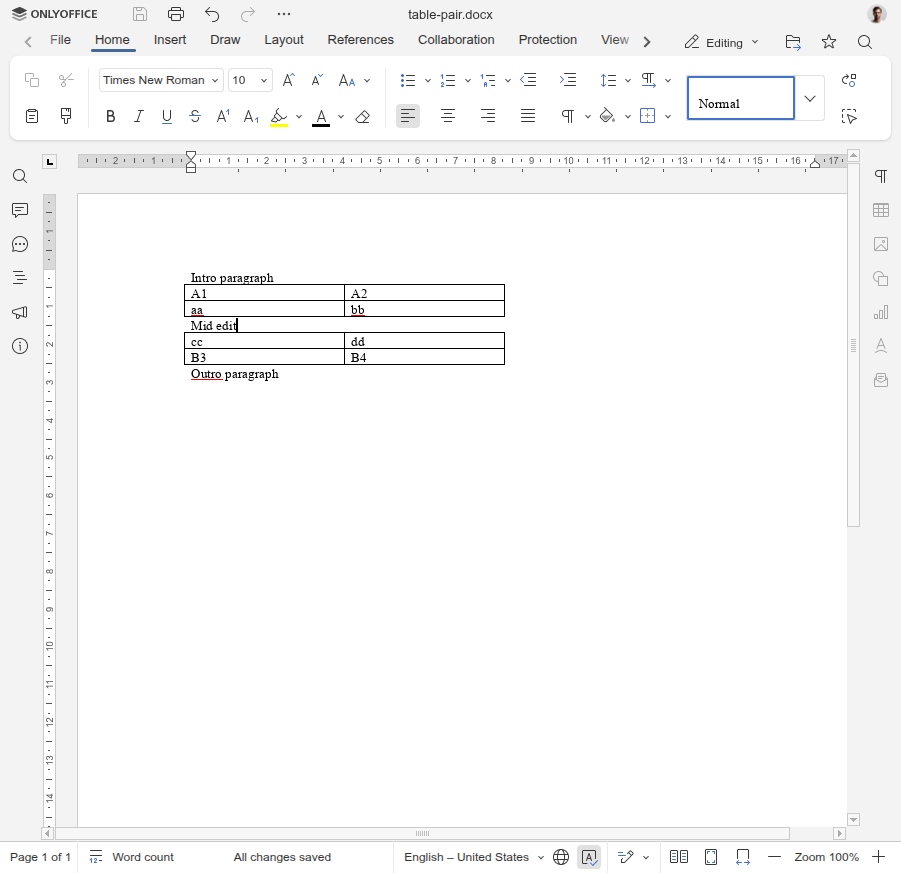
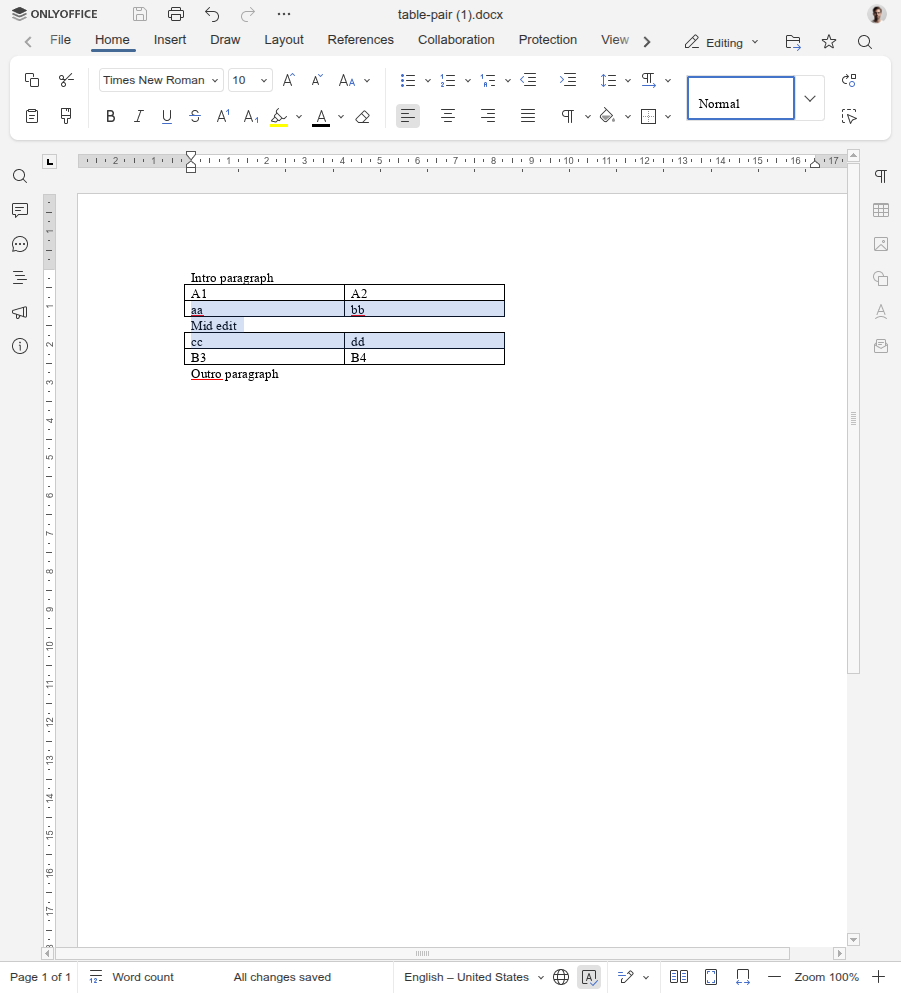
fix(scribe): cross-boundary Replace re-selects the injected span (L#2)
T4/T5/T6 (¶↔cell, cell↔¶, table↔table) mixed Replace left the cursor
collapsed at offset 0. The post-selection now re-establishes a span over
the injected region only: text ¶s are bracketed with two XSEL sentinels,
their injected span recovered (shift-compensated after the sentinels are
deleted), paired with fresh GetCell ranges, and ExpandTo'd — never
doc.GetRange(int,int) across a cell boundary. Validated live + goldens
re-captured (A2/replace also reclassified pass): harness now 0 xfail.

diff --git a/plugins/onlyoffice-scribe/scripts/code.js b/plugins/onlyoffice-scribe/scripts/code.js
@@ -9,7 +9,7 @@
   // If the console shows an OLDER build than expected, the editor served a CACHED
   // code.js → reopen the editor in a fresh tab / private window (a plain F5 won't
   // refetch the async plugin iframe).
-  var SCRIBE_BUILD = "2026-06-29.14 — inline Scribe triggers force a FRESH selection extraction (direct callCommand, not the throttled debounce) before casting AI_TEXT_ASSISTANT, so the prompt uses the CURRENT selection not the previous one. On top of .13 (redo fix) / .12 (stable image ids).";
+  var SCRIBE_BUILD = "2026-07-06.1 — cross-boundary mixed Replace (T4/T5/T6) re-establishes a spanning post-selection over the INJECTED region only (L#2 fix): text ¶s bracketed with two XSEL sentinels, injected span recovered shift-compensated, paired with fresh GetCell ranges, ExpandTo the extremes — no doc.GetRange(int,int) across a cell boundary. On top of .14 (inline fresh extraction).";
   try { window.__scribeBuild = SCRIBE_BUILD; } catch (e) {}
 
   // ---- State ----
@@ -1576,6 +1576,15 @@
       // Each non-table paragraph gets its own narrowed InsertContent (inline mode),
       // which handles partial paragraphs natively (preserves prefix/suffix).
       // Processed in reverse order to avoid position shifts.
+      // Cross-boundary post-selection locators: two plain-ASCII sentinel runs
+      // BRACKET each modified text ¶'s injected content (one before, one after) so
+      // the post-selection can re-find the exact injected span after the inline
+      // merge absorbs pbParagraph's refs and shifts its top-level position. Both are
+      // deleted before the selection is built (with shift compensation), so they
+      // never leak into the saved doc and the selection covers the injected text
+      // only — not the kept prefix/suffix.
+      var SCRIBE_XSEL_A = "zZscribeXAZz"; // opens the injected span
+      var SCRIBE_XSEL_B = "zZscribeXBZz"; // closes the injected span
       var skipContentAndInsert = false;
       if (mode === "replace" && tablesModifiedInPlace && hasMixedContent) {
         try {
@@ -1633,9 +1642,13 @@
                 var selPRange = doc.GetRange(selPStart, selPEnd);
                 if (selPRange) selPRange.Select();
 
-                // Build content and InsertContent (same mechanism as non-table case)
+                // Build content and InsertContent (same mechanism as non-table case).
+                // Bracket the injected runs with two sentinels so the post-selection
+                // can recover the exact injected span (kept prefix/suffix excluded).
                 var pbParagraph = Api.CreateParagraph();
+                try { var xRunA = Api.CreateRun(); xRunA.AddText(SCRIBE_XSEL_A); pbParagraph.AddElement(xRunA); } catch (e) {}
                 addBlockToParagraph(pbParagraph, pbBlock, srcFontFamily, srcFontSize);
+                try { var xRunB = Api.CreateRun(); xRunB.AddText(SCRIBE_XSEL_B); pbParagraph.AddElement(xRunB); } catch (e) {}
                 doc.InsertContent([pbParagraph], true); // inline mode: preserves suffix
 
                 // Save the narrowed selection bounds for post-selection.
@@ -2242,11 +2255,98 @@
           } // end if (!skipContentAndInsert)
 
           // Select the modified cell range (pure table Replace only).
-          // For mixed content Replace (skipContentAndInsert), post-selection is skipped
-          // because OO's selection API can't select partial table + text cross-boundary.
           if (!skipContentAndInsert && postSelStart >= 0 && postSelEnd > postSelStart) {
             var postRange = doc.GetRange(postSelStart, postSelEnd);
             if (postRange) postRange.Select();
+          }
+
+          // Cross-boundary mixed Replace (skipContentAndInsert): re-establish a
+          // spanning selection over the INJECTED region only. Re-fetch every touched
+          // element FRESH — cells via GetCell, text ¶s via their XSEL_A/XSEL_B
+          // sentinel bracket — then ExpandTo the global extremes' union. We NEVER use
+          // doc.GetRange(int,int) ACROSS a cell boundary (that is exactly L#2:
+          // integer positions don't compose cross-cell); the only integer ranges we
+          // build are WITHIN a single ¶ (the injected span), and ExpandTo of two live
+          // range objects composes across the boundary (probe-confirmed post-mutation).
+          if (skipContentAndInsert) {
+            // 1. locate the sentinel pair in each modified text ¶. injStartPre points
+            //    just after XSEL_A (first injected char); injEndPre just before XSEL_B
+            //    (last injected char). Positions are PRE-deletion.
+            var xSpans = [];   // { injStartPre, injEndPre }
+            var xSents = [];   // { run, pos, len } for every sentinel, for compensation
+            var xAllParas = doc.GetAllParagraphs();
+            for (var xpi = 0; xpi < xAllParas.length; xpi++) {
+              var xPara = xAllParas[xpi];
+              var xEc = (xPara && xPara.GetElementsCount) ? xPara.GetElementsCount() : 0;
+              var xA = null, xB = null;
+              for (var xei = 0; xei < xEc; xei++) {
+                var xEl = xPara.GetElement(xei);
+                var xTxt = (xEl && xEl.GetText) ? xEl.GetText() : "";
+                if (xTxt === SCRIBE_XSEL_A) xA = xEl;
+                else if (xTxt === SCRIBE_XSEL_B) xB = xEl;
+              }
+              if (xA && xB) {
+                var xAr = xA.GetRange(), xBr = xB.GetRange();
+                xSpans.push({ injStartPre: xAr.GetEndPos(), injEndPre: xBr.GetStartPos() });
+                xSents.push({ run: xA, pos: xAr.GetStartPos(), len: xAr.GetEndPos() - xAr.GetStartPos() });
+                xSents.push({ run: xB, pos: xBr.GetStartPos(), len: xBr.GetEndPos() - xBr.GetStartPos() });
+              }
+            }
+            // 2. delete every sentinel (content is now final & clean).
+            for (var xsd = 0; xsd < xSents.length; xsd++) {
+              try { xSents[xsd].run.Delete(); } catch (e) {}
+            }
+            // compensate a PRE-deletion position for all sentinels removed before it.
+            function xCompensate(pos) {
+              var shift = 0;
+              for (var i = 0; i < xSents.length; i++) { if (xSents[i].pos < pos) shift += xSents[i].len; }
+              return pos - shift;
+            }
+
+            // 3. collect fresh candidate ranges (all consistent, post-deletion).
+            var xCand = [];
+            // cells — GetCell is always fresh, no compensation needed.
+            var xTables = doc.GetAllTables();
+            for (var xti in partialTableInfo) {
+              if (!partialTableInfo.hasOwnProperty(xti)) continue;
+              var xCells = partialTableInfo[xti];
+              if (!xCells || !xCells.length) continue;
+              var xDi = tableDocIndices[parseInt(xti)];
+              var xTb = (xDi !== undefined && xDi < xTables.length) ? xTables[xDi] : null;
+              if (!xTb) continue;
+              for (var xci = 0; xci < xCells.length; xci++) {
+                var xCl = xTb.GetCell(xCells[xci].r, xCells[xci].c);
+                if (!xCl) continue;
+                var xCont = xCl.GetContent();
+                if (!xCont || xCont.GetElementsCount() === 0) continue;
+                var xP0 = xCont.GetElement(0);
+                var xPN = xCont.GetElement(xCont.GetElementsCount() - 1);
+                var xR0 = (xP0 && xP0.GetRange) ? xP0.GetRange() : null;
+                var xRN = (xPN && xPN.GetRange) ? xPN.GetRange() : null;
+                if (xR0) xCand.push({ s: xR0.GetStartPos(), e: xR0.GetEndPos(), r: xR0 });
+                if (xRN) xCand.push({ s: xRN.GetStartPos(), e: xRN.GetEndPos(), r: xRN });
+              }
+            }
+            // text ¶s — injected span via compensated positions (WITHIN one ¶, safe).
+            for (var xsp = 0; xsp < xSpans.length; xsp++) {
+              var xS = xCompensate(xSpans[xsp].injStartPre);
+              var xE = xCompensate(xSpans[xsp].injEndPre);
+              if (xE > xS) {
+                var xr = doc.GetRange(xS, xE);
+                if (xr) xCand.push({ s: xS, e: xE, r: xr });
+              }
+            }
+
+            // 4. ExpandTo the extreme range objects (min start .. max end) and Select.
+            var xMin = null, xMax = null;
+            for (var xc = 0; xc < xCand.length; xc++) {
+              if (!xMin || xCand[xc].s < xMin.s) xMin = xCand[xc];
+              if (!xMax || xCand[xc].e > xMax.e) xMax = xCand[xc];
+            }
+            if (xMin && xMax && xMin.r && xMax.r && xMin.r.ExpandTo) {
+              var xRng = xMin.r.ExpandTo(xMax.r);
+              if (xRng && xRng.Select) xRng.Select();
+            }
           }
         } catch (e) {
           // Selection failed — not critical, document content is correct

diff --git a/.planning/SELECTION-CASES.md b/.planning/SELECTION-CASES.md
@@ -64,7 +64,7 @@ Deux axes orthogonaux se croisent avec chaque cas :
 |---|---|---|---|---|
 | A0 | `[P1@x,P1@x]` *(curseur seul (sélection vide))* | ✅ insère au curseur; pas de chip | — absent par défaut (FRAG-04); si exposé se comporte comme Insérer | ✅ · ne pas utiliser init() qui renverrait tout le ¶ |
 | A1 | `[P1@start,P1@end]` *(paragraphe entier)* | ✅ nouveau ¶ après le ¶ courant; pas de &nbsp; | ✅ remplace tout le ¶ | ✅ |
-| A2 | `[P1@mid,P1@mid]` *(milieu d'un mot)* | ✅ insère au point; &nbsp; des deux côtés | ⚠️ remplace le fragment; &nbsp; des deux côtés | ⚠️ · **L#1** · L1: le suffixe non sélectionné perd ses styles inline (Replace) |
+| A2 | `[P1@mid,P1@mid]` *(milieu d'un mot)* | ✅ insère au point; &nbsp; des deux côtés | ✅ remplace le fragment; &nbsp; des deux côtés | ✅ · Replace sur curseur collapsed @mid = insertion au point -> "The quick XXX brown fox"; PLUS de double espace ni ¶ vide (fix §5bis livre). L#1 (perte styles suffixe) VERIFIE NON-REPRODUCTIBLE. Golden beni verdict=pass (build .1 §5bis). Ancien xfail double-espace resolu. |
 | A3 | `[P1@space,P1@end]` *(après espace -> fin)* | ✅ insère en fin de ¶; pas de &nbsp; après | ✅ remplace; espace de tête déplacée (CommonMark); pas de &nbsp; après | ✅ · **L#6** · L6: post-sélection inline fragile (+2) |
 | A4 | `[P1@start,P1@space]` *(début -> mot, espace finale)* | ✅ insère au point; pas de &nbsp; avant | ✅ remplace; espace finale déplacée après le marqueur md | ✅ |
 | A5 | `[P1@start,P3@end]` *(plusieurs ¶ entiers)* | ✅ blocs insérés après P3 | ✅ remplace P1..P3; injection ¶ par ¶ en ordre inverse | ✅ · TESTÉ LIVE + golden 2026-06-26 (build .8, driver multi-¶ top-level via branche cross ExpandTo). Insert: 3 ¶ intacts, réponse après P3 (1er ¶ fusionné inline en fin de P3 = smart-spacing standard, 'Beta edit' nouveau ¶). Replace: P1..P3 → exactement 3 ¶. Goldens corpus/A5/{insert,replace} sur a-family. |
@@ -87,9 +87,9 @@ Mêmes conventions Insérer / Remplacer. Rappel : pour un tableau, *Insérer* pr
 | T2b | `[T1.cells,T1.cells]` *(cellules partielles, fusion H traversée)* | ✅ clone complet (jamais RemoveColumn) | ✅ in-place — identique à T2a (round-trip (r,c), S2) | ✅ · Insert + Replace VALIDÉS LIVE 2026-06-26 (build .4) : §4bis#2 implémenté (tableHasMerge → clone COMPLET, skip RemoveColumn) → plus de corruption Q4 ; Replace in-place (gridSpan préservé) ; aperçu GFM désaligné cosmétique |
 | T2c | `[T1.cells,T1.cells]` *(cellules partielles, fusion V traversée)* | ✅ clone complet (jamais RemoveRow) | ✅ in-place — identique à T2a (maître édité, continuation vide jamais touchée, S3/S4) | ✅ · Insert + Replace VALIDÉS LIVE 2026-06-26 (build .4) : §4bis#2 implémenté → Insert V-region = clone COMPLET cpr=[3,3,3,2], continuation (2,0) vide, ZÉRO corruption (t2c-insert-fullclone.png) ; Replace in-place OK ; S3 mismatch UX (sélection continuation seule) ; trou détection full S5 — non bloquants |
 | T3 | `[T1.full,T1.full]` *(tableau entier englobant)* | ✅ clone complet inséré après le tableau | ✅ clone + InsertContent; post-sélection OK | ✅ · Insert + Replace VALIDÉS LIVE 2026-06-26 : Insert (build .3) → copie complète (w\|x/y\|z) après le tableau, original intact ; Replace (build .5) → [[p,q],[r,s]] in-place (a nécessité le fix isSimpleInline côté replace : avant, inline ne vidait que la 1ère cellule). Goldens corpus/T3/{insert,replace}. |
-| T4 | `[P1@mid,T1.C(0,1)]` *(¶ -> finit dans un tableau)* | ✅ après le tableau: ¶/tableaux entiers du début + copie réduite du tableau de fin (cas 2b) | ⚠️ cellules in-place + InsertContent par ¶ (ordre inverse) | ⚠️ · **L#2** · Insert + Replace VALIDÉS LIVE 2026-06-26 (build .7, driver cross-frontière). Spec P1@mid..T1.C(0,1)@end. Insert ✅ : original intact, réponse (¶ 'Head edit' + copie réduite [[AA,BB]]) insérée après le tableau. Replace : DOCUMENT CORRECT (Intro p + Head edit ; cellules (0,0)/(0,1)->AA/BB in-place) mais xfail = L#2 post-sélection collapsed (block:0). Goldens corpus/T4/{insert,replace}. |
-| T5 | `[T1.C(1,0),P2@mid]` *(tableau -> finit après)* | ✅ après la fin de sélection: copie réduite tête + ¶/tableaux suivants (cas 2c) | ⚠️ cellules in-place + InsertContent par ¶ | ⚠️ · **L#2** · Insert RE-CAPTURÉ 2026-06-28 (build .10) après fix T7 : place la réponse à la FIN DE LA SÉLECTION (P2@mid, scinde Outro) conforme à expected — l'ancien golden (build .7) l'insérait à tort 'après le tableau'. docElementOrder=[Intro,T1,Outro-tête,clone(GG/DD),Tail edit,Outro-queue]. Replace reste xfail L#2 (post-sélection collapsed, doc correct). Goldens corpus/T5/{insert(re-capturé),replace}. |
-| T6 | `[T1.C(1,0),T2.C(0,1)]` *(deux tableaux partiels, milieu entier)* | ✅ copie réduite tête + milieu entier + copie réduite queue (cas 2d) | ⚠️ in-place les deux tableaux + InsertContent par ¶ du milieu | ⚠️ · **L#2** · Insert + Replace VALIDÉS LIVE 2026-06-26 (build .7, fixture table-pair NOUVELLE). Spec T1.C(1,0)@start..T2.C(0,1)@end (queue table A + ¶ Middle entier + tête table B). Insert ✅ : 2 tableaux + Intro/Middle/Outro intacts, réponse (réduite [[aa,bb]] + 'Mid edit' + réduite [[cc,dd]]) insérée après table B. Replace : DOCUMENT CORRECT (A row1->[[aa,bb]], Middle->'Mid edit', B row0->[[cc,dd]] in-place) mais xfail = L#2 post-sélection collapsed (block:2). Goldens corpus/T6/{insert,replace}. |
+| T4 | `[P1@mid,T1.C(0,1)]` *(¶ -> finit dans un tableau)* | ✅ après le tableau: ¶/tableaux entiers du début + copie réduite du tableau de fin (cas 2b) | ✅ cellules in-place + InsertContent par ¶ (ordre inverse) | ✅ · Replace ¶->tableau (cas 2b) : document correct + post-sélection RÉPARÉE (L#2 fix build 2026-07-02.2). Sélection enjambe le contenu injecté seul (GetText Head edit+AA/BB, préfixe Intro p exclu ; start block:0 -> end block:-1 cellule). Fix : bracket XSEL_A/B autour du texte injecté + GetCell frais + ExpandTo. Goldens corpus/T4/{insert,replace}. |
+| T5 | `[T1.C(1,0),P2@mid]` *(tableau -> finit après)* | ✅ après la fin de sélection: copie réduite tête + ¶/tableaux suivants (cas 2c) | ✅ cellules in-place + InsertContent par ¶ | ✅ · Replace tableau->¶ (cas 2c) : document correct + post-sélection RÉPARÉE (L#2 fix). Sélection = contenu injecté seul (GG/DD+Tail edit, suffixe aragraph exclu ; start block:-1 cellule -> end block:2). Goldens corpus/T5/{insert,replace}. |
+| T6 | `[T1.C(1,0),T2.C(0,1)]` *(deux tableaux partiels, milieu entier)* | ✅ copie réduite tête + milieu entier + copie réduite queue (cas 2d) | ✅ in-place les deux tableaux + InsertContent par ¶ du milieu | ✅ · Replace cross-table (cas 2d) : document correct + post-sélection RÉPARÉE (L#2 fix). Sélection enjambe tableA->¶->tableB (raw 28..66, contenu injecté exact). NB oracle: 2 extrémités en cellules -> model.json collapsed:true (comme T1/T2a/T3 pass) ; preuve span dans capture.json. Goldens corpus/T6/{insert,replace}. |
 | T8 | `[T1.intra multi-¶]` *(cellule multi-¶ (dont vides))* | ✅ split sur double-newline; injecté in-cellule | ✅ idem | ✅ · Insert + Replace VALIDÉS LIVE 2026-06-26 (build .5) sur cellule (1,1) multi-¶ (Delta/Delta2), contenu multi-¶ : ZÉRO débordement (blockCount=3) -> L#3 'block déborde hors cellule' INFIRMÉ ; 2e ¶ non sélectionné (Delta2) préservé. Résidu ¶ vide = L#7 (cosmétique, commun top-level). Goldens corpus/T8/{insert,replace}. |
 | T9 | `[T1.intra avec image]` *(cellule avec image)* | ✅ copie après tableau ; original (avec image) non touché → image préservée | ✅ clone tableau : image de cellule via marqueur+PasteHtml → préservée au save | ✅ · FIXÉ 2026-06-27 (commit 8ee036220, build .9). Replace tableau entier (T1.full, chemin clone) : l'image en cellule survit DÉSORMAIS au save (after.docx 1 media + a:blip ; cellules BetaX/GammaX/DeltaX). Ancien xfail L#8 : reconstructTable/ToJSON + AddDrawing(Copy) perdait le média (0 blip). Fix : images de cellule via marqueur texte + PasteHtml post-InsertContent (upload média serveur) + injectPendingImages scanne les cellules. Insert reste pass (original gardé + clone PasteHtml = 2 media). NB pure-image cell extraction réparée aussi (commit d520064ea). Goldens corpus/T9/{insert,replace(re-capturé pass)}. |
 | T10 | `(garde défensive)` *(no_range / no_cell_match — pas un cas utilisateur)* | — bandeau câblé (message trompeur) | — idem | ✅ · ne devrait pas se déclencher; à tester au niveau garde/unitaire, pas en golden |
@@ -205,15 +205,13 @@ Ces limites dépendent du **type de contenu**, pas de la géométrie de sélecti
 ### Légende des limites (inlinées ci-dessus)
 
 - **L#1** — ~~Replace partiel d'un ¶ : le suffixe non sélectionné perd ses styles inline~~ → **VÉRIFIÉ NON REPRODUCTIBLE sur le code actuel (2026-06-24)**. Le chemin inline `InsertContent(content, true)` **préserve** le formatage de caractères du **préfixe ET du suffixe** non sélectionnés, **y compris quand la sélection coupe au milieu d'un run formaté** (run-splitting). Prouvé live sur `format-family.docx` (« quick » gras, « fox » italique) : replace `0..6` → reste `ick`**gras** ; `6..12` → `qu`**gras** + `fox`*ital* conservés ; `0..17` → reste `ox`*ital*. ✅ **Étendu au multi-¶ (A6) 2026-06-26 (build .8)** : le sous-cas « chemin block » jadis suspecté de perdre le formatage du texte traînant est lui aussi **NON REPRODUCTIBLE** — sur `A6` (`P1@mid..P3@mid`) la **tête** garde son gras (`quick` b:1 dans model+`after.docx`) et la **queue** formatée est préservée (sonde dédiée `a6tail.docx`, `flows` gras en queue → reste gras). Seul résidu = un run gras **vide** (sans texte) dans le `.docx` (cosmétique, parent L#7). ⇒ A6 Replace re-classé xfail(L1)→**pass**.
-- **L#2** — Replace cross-frontière (¶↔cellule, ou deux tableaux) : **le document résultant est CORRECT** — cellules remplacées in-place + ¶ remplacés in-place, contenu non sélectionné intact. Le seul manque = la **post-sélection** : le curseur retombe collapsed (pas de span sur le contenu remplacé). **VÉRIFIÉ LIVE 2026-06-26 (build .7)** sur T4/T5/T6 ; xfail = cosmétique (curseur), zéro corruption. Goldens `corpus/T{4,5,6}/{insert,replace}`.
+- **L#2** — ~~Replace cross-frontière (¶↔cellule, ou deux tableaux) : le curseur post-replace retombe collapsed (pas de span sur le contenu remplacé)~~ → **RÉSOLU 2026-07-02 (build 2026-07-02.2)**. La post-sélection ré-établit désormais un **span exact sur le contenu injecté** (préfixe/suffixe non-sélectionné exclus). Vérifié live T4/T5/T6 : `GetText()` de la sélection = pile le texte injecté (T4 `Head edit`+AA/BB ; T5 GG/DD+`Tail edit` ; T6 aa/bb+`Mid edit`+cc/dd, raw sel 28..66). Le document reste correct. Goldens re-capturés `corpus/T{4,5,6}/replace` (verdict pass). ⚠️ **Artefact oracle** : quand les 2 extrémités sont dans des cellules (T6), `model.json` les mappe à `block:-1/-1` + `collapsed:true` (même limite que les goldens table-pure T1/T2a/T3, pass) — la preuve du span vit dans `capture.json` (rawSel).
 
-  **Pourquoi cet xfail (mécanisme — ne PAS confondre avec « OO ne sait pas sélectionner cross-frontière »)** :
-  - **Ce n'est PAS une impossibilité de l'API.** La *mise en place* d'une sélection cross-frontière marche : on prend deux **objets** range vivants (`paragraphe.GetRange()` d'un côté, `cellule…GetRange()` de l'autre) et `rangeA.ExpandTo(rangeB).Select()`. OO calcule l'union des positions réelles des deux objets. C'est ce que fait le driver *avant* le replace (et l'ex-limite « le driver ne sait pas » était fausse — jamais essayée).
-  - **La difficulté est la *re*-sélection APRÈS un replace mixte**, pour deux raisons cumulées :
-    1. **Le replace mute le doc par deux mécanismes incompatibles** (`code.js:1431-1511`) : cellules éditées **in-place** (`modifyOriginalTableCells`) + ¶ non-tableau remplacés par **`InsertContent(content,true)` qui DÉTRUIT puis recrée** l'objet ¶. → après `InsertContent`, les objets range qu'on voudrait `ExpandTo` sont **morts** (handles invalidés) : on ne peut pas réutiliser les extrémités de la pré-sélection.
-    2. **Le seul repli post-mutation — les positions entières absolues** `doc.GetRange(startPos,endPos).Select()` — **ne se compose pas de façon fiable à travers une frontière de cellule** (les entiers comptent les frontières d'éléments d'une manière ambiguë dès qu'on entre/sort d'une cellule). C'est pourquoi le code **skip explicitement** ce cas plutôt que de poser un surlignage faux (`code.js:2048-2054`, commentaire « OO's selection API can't select partial table + text cross-boundary »).
-  - **Bilan** : primitive *fiable* (`ExpandTo` sur objets) inutilisable post-mutation (objets détruits) ; primitive *disponible* (positions entières) non fiable cross-frontière → curseur collapsed assumé. Le **document est juste** ; seul le span manque.
-  - **Voie de fix éventuelle** (non triviale, fragile) : refaire post-mutation ce que le driver fait pré-mutation — re-localiser les deux extrémités sur le doc muté, récupérer leurs *nouveaux* objets range, `ExpandTo().Select()`. Obstacle réel = identifier « le contenu qu'on vient d'insérer » dans le doc muté (le ¶ recréé par `InsertContent` n'a pas de marqueur stable ; bookmarks fragiles à travers `InsertContent`, cf L#6 / `phase13-paste-select.md`). Gain purement cosmétique → non prioritaire.
+  **Mécanisme du fix** (contourne les deux obstacles historiques) :
+  - **Obstacle 1 — objets range morts après `InsertContent`.** Contourné en **re-fetchant les extrémités FRAÎCHES** post-mutation : cellules via `GetCell(r,c)` (toujours vivant), ¶ texte via un **bracket de 2 sentinelles** `XSEL_A`/`XSEL_B` posées autour du contenu injecté (le ¶ survit au merge inline ; les sentinelles le re-localisent malgré l'absorption du ref).
+  - **Obstacle 2 — positions entières non composables cross-cellule.** Contourné en n'utilisant `doc.GetRange(int,int)` **que DANS un même ¶** (le span injecté du ¶) ; la composition cross-frontière se fait **uniquement** par `ExpandTo` de deux **objets** range vivants (primitive fiable, probe-confirmée post-mutation). Les sentinelles sont supprimées avant de bâtir la sélection (avec **compensation du décalage** de positions) → zéro fuite dans le `.docx` sauvé.
+  - Implémentation : `code.js` branche `skipContentAndInsert` de la post-sélection (`buildAndInject`). Historique de la difficulté conservé ci-dessous.
+  - *(historique)* La *mise en place* pré-mutation marchait déjà (`ExpandTo` sur objets) ; c'était la *re*-sélection post-mutation qui butait (objets détruits + positions entières non fiables). Le fix reconstruit des objets frais des deux côtés.
 - **L#3** — ~~`InsertContent` *block mode* dans une cellule peut déborder hors cellule (multi-¶ intra-cellule)~~ → **INFIRMÉ live (2026-06-26, build .5)** : injection multi-¶ dans une cellule (T8, §4ter) reste **bornée à la cellule, zéro débordement** (le hook `Select()` une plage DANS la cellule → `InsertContent` est scopé à la cellule). Seul résidu : un ¶ vide cosmétique (= L#7), commun au top-level. Goldens `corpus/T8/{insert,replace}`.
 - **L#4** — Insert/Replace avec cross-refs perd parfois les liens (pré-existant v2.6, dépend du document).
 - **L#5** — Texte coloré non préservé.